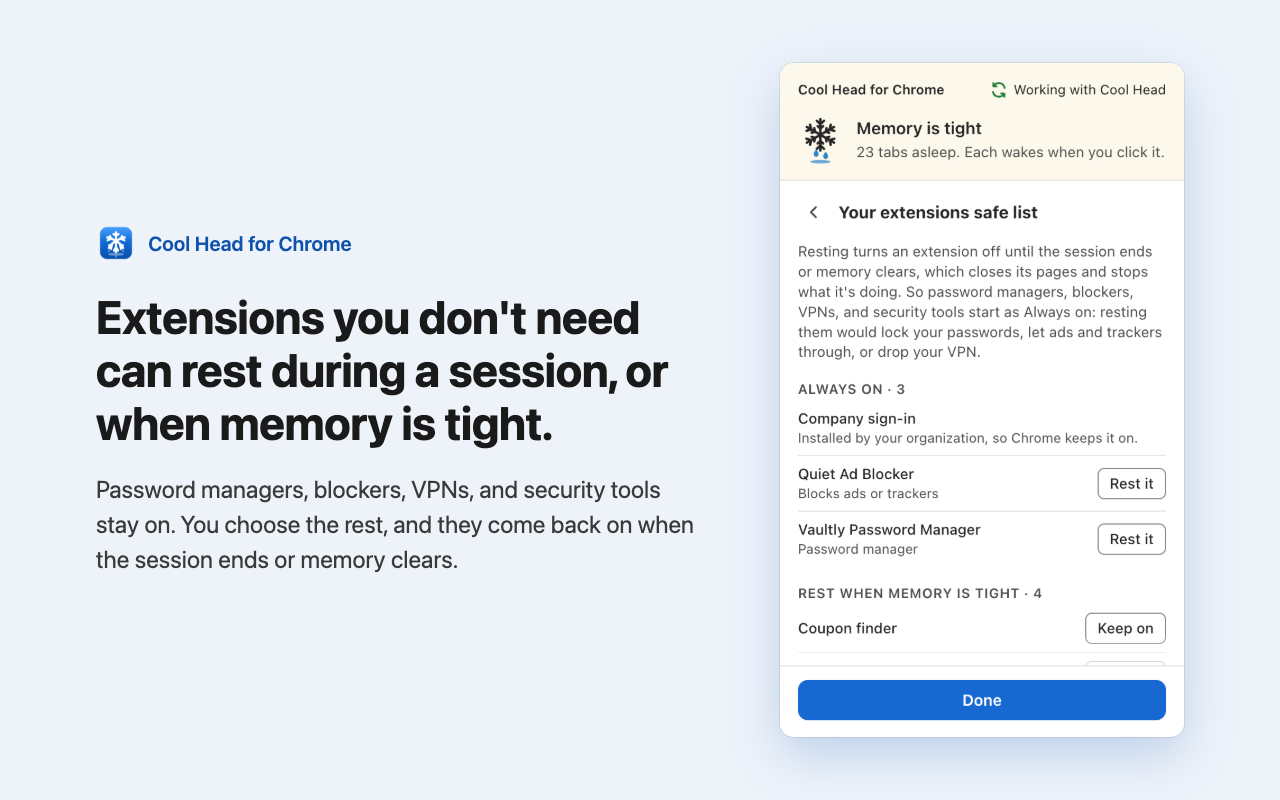
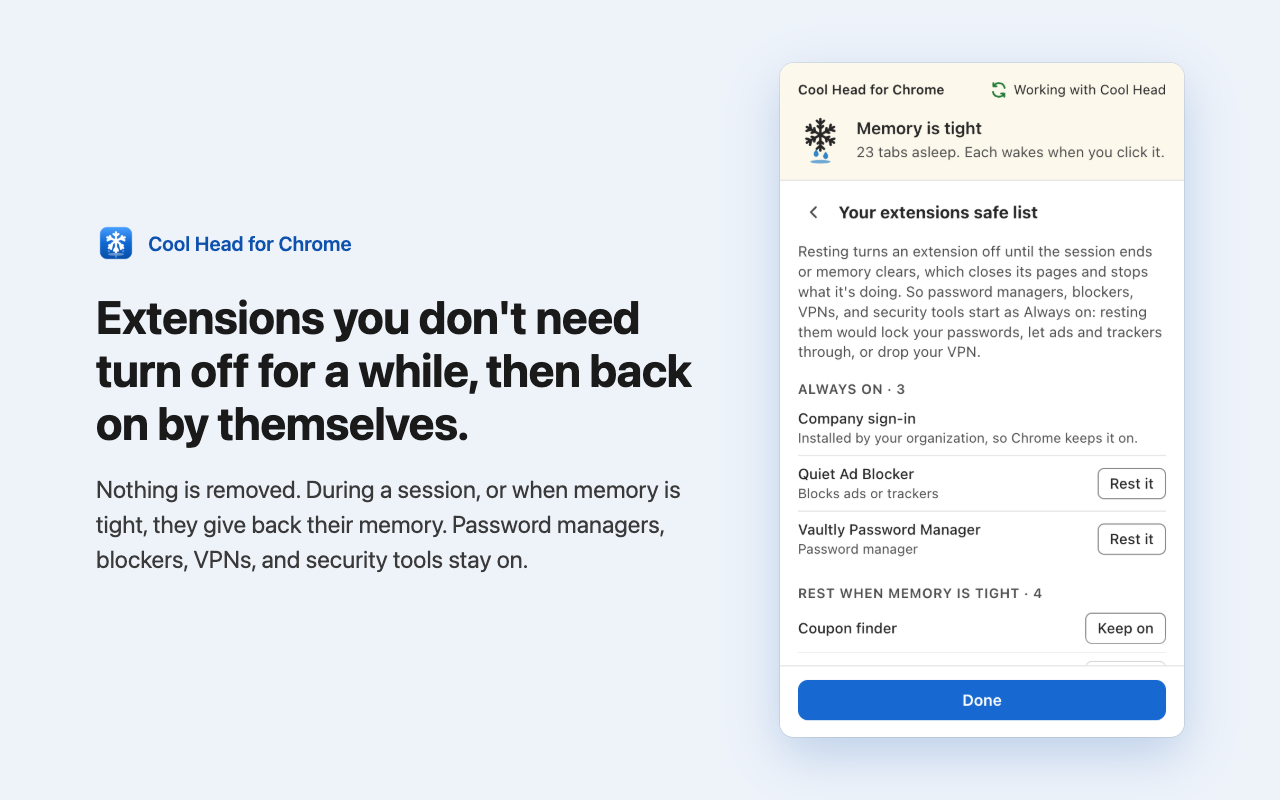
Store text: extensions turn off temporarily, then back on
The summary, description, extensions screenshot, and promo tile now say
that resting turns an extension off for a while and back on by itself,
so nothing is removed and there's nothing to remember.

Assisted-by: Claude Code:claude-opus-5-5

Changed region(s): [[0.0625, 0.5938, 0.5312, 0.7188], [0.0625, 0.4375, 0.5312, 0.5625]]

diff --git a/Extension/chrome/store/make-images.py b/Extension/chrome/store/make-images.py
@@ -30,7 +30,7 @@ p{font-size:24px;line-height:1.45;color:#3A3A3A}
 # 404 wide; Home ends at 1115 pixels, so it's cut there rather than showing empty space.
 SHOTS = [
     ("1-tabs", "home-light.png", 673 * 1115 / 1200, "Tabs you aren't using go to sleep, so Chrome holds less memory.", "A sleeping tab stays in your tab bar and reloads when you click it. Nothing closes."),
-    ("2-extensions", "safe-list-light.png", 674, "Extensions you don't need can rest during a session, or when memory is tight.", "Password managers, blockers, VPNs, and security tools stay on. You choose the rest, and they come back on when the session ends or memory clears."),
+    ("2-extensions", "safe-list-light.png", 674, "Extensions you don't need turn off for a while, then back on by themselves.", "Nothing is removed. During a session, or when memory is tight, they give back their memory. Password managers, blockers, VPNs, and security tools stay on."),
     ("3-held", "held-open-light.png", 674, "Calls, sound, and unsent typing stay awake.", "It shows each tab it keeps loaded and why, so you choose: keep it, sleep it, or close it."),
     ("4-session", "start-session-light.png", 674, "Start a session for the task in front of you.", "Tick the tabs a meeting or project needs. The rest sleep until you want them back."),
     ("5-alone", "alone-dark.png", 674, "Works on its own, or with Cool Head on a Mac.", "On its own, you choose how hard it works. With Cool Head, a free Mac app, tabs sleep only when memory is actually short."),
@@ -42,7 +42,7 @@ body{width:440px;height:280px;overflow:hidden;background:#0F52AD;color:#fff;font
 img{width:112px;height:112px;border-radius:24px}
 h1{font-size:30px;line-height:1.1;font-weight:700;margin-bottom:12px}
 p{font-size:17px;line-height:1.35}
-</style></head><body><img src=logo.png alt=""><div><h1>Cool Head for Chrome</h1><p>Sleeps unused tabs and turns off extensions you don't need.</p></div></body></html>"""
+</style></head><body><img src=logo.png alt=""><div><h1>Cool Head for Chrome</h1><p>Sleeps unused tabs and temporarily turns off extensions you don't need.</p></div></body></html>"""
 
 
 def main():

diff --git a/Extension/chrome/store/listing.md b/Extension/chrome/store/listing.md
@@ -8,12 +8,12 @@ Run `scripts/package-extension.sh` and upload the zip it names (`build/cool-head
 
 ## Store listing tab
 
-**Name and summary** come from the manifest: "Cool Head for Chrome", and "Sleeps tabs you aren't using and turns off extensions you don't need, so Chrome holds less memory. Works alone or with Cool Head." (129 of the 132 characters allowed)
+**Name and summary** come from the manifest: "Cool Head for Chrome", and "Sleeps unused tabs and temporarily turns off extensions you don't need, so Chrome holds less memory. Works alone or with Cool Head." (131 of the 132 characters allowed)
 
 **Description:**
 
 ```
-Cool Head for Chrome puts tabs you aren't using to sleep and turns off extensions you don't need, so Chrome holds less memory and your computer stays quick. A sleeping tab stays in your tab bar and reloads when you click it, and a resting extension comes back on by itself. Nothing closes unless you choose.
+Cool Head for Chrome puts tabs you aren't using to sleep and temporarily turns off extensions you don't need, so Chrome holds less memory and your computer stays quick. A sleeping tab stays in your tab bar and reloads when you click it. A resting extension isn't removed: it's switched off for a while and comes back on by itself. Nothing closes unless you choose.
 
 What it does
 • Sleeps tabs once you leave them. You choose how hard it works: Light keeps your 5 most used tabs loaded, Balanced your 3, and Focus only the tab you're on.
@@ -21,7 +21,7 @@ What it does
 • Shows each tab it's keeping loaded and why, so you can keep it, sleep it, or close it.
 • Start a session: tick the tabs a task needs, like a meeting or a project, and the rest sleep until you want them back. When it ends, you can save its tabs as a tab group.
 • Finds pages open twice and closes the extra copy, keeping the one you used last.
-• Rests extensions you don't need during a session, or, with Cool Head, when memory is very tight, and turns them back on afterward. Password managers, ad blockers, VPNs, and security tools stay on, and you choose the rest. It's off until you turn it on.
+• Temporarily turns off extensions you don't need, during a session or, with Cool Head, when memory is very tight, then turns them back on for you. They give back their memory without you removing anything or remembering to switch them on again. Password managers, ad blockers, VPNs, and security tools stay on, and you choose the rest. It's off until you turn it on.
 
 Works on its own, or with Cool Head
 Cool Head is a free Mac app that keeps an eye on your Mac's memory, heat, and battery. Linked to it, the extension's Auto level puts tabs to sleep only when memory is actually short, so they reload less, and Cool Head's advice can act in Chrome with one click. Without it, the extension works on its own at the level you choose.
